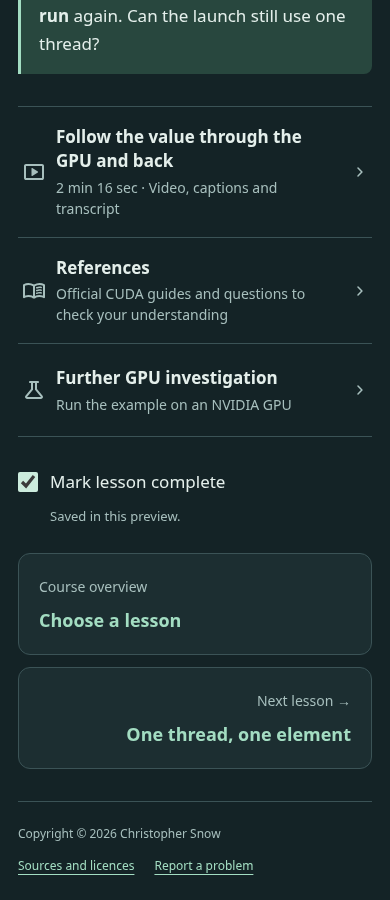
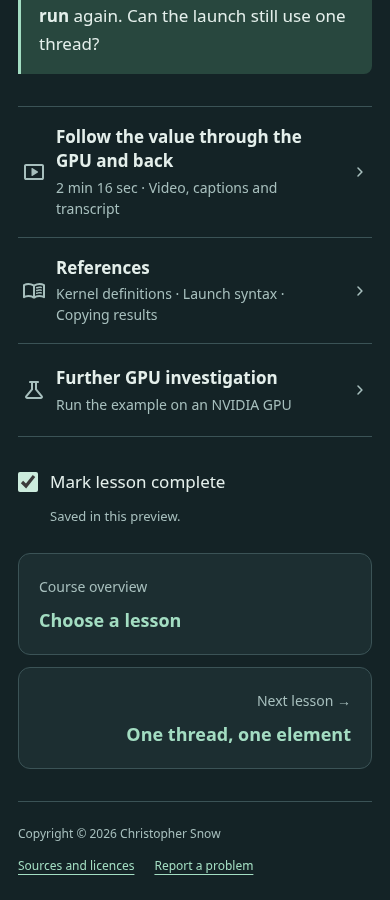
Specify lesson-specific topic references and illustrate quick lookup

Changed region(s): [[0.1538, 0.3111, 0.7692, 0.3733]]

diff --git a/docs/mockups/course-style.html b/docs/mockups/course-style.html
@@ -145,6 +145,11 @@
 #course-style-preview .editor-tools>summary{display:flex;align-items:center;gap:6px}
 #course-style-preview .tools-chevron.material-symbol{width:20px;height:20px}
 #course-style-preview .editor-tools[open] .tools-chevron{transform:rotate(90deg)}
+#course-style-preview .reference-topic+.reference-topic{margin-top:14px;padding-top:14px;border-top:1px solid var(--line)}
+#course-style-preview .reference-topic h3{font-size:16px;font-weight:600;margin-bottom:4px}
+#course-style-preview .reference-topic h3>a{display:inline-flex;align-items:center;min-height:44px}
+#course-style-preview .reference-code{display:block;font-size:14px;white-space:pre-wrap;overflow-wrap:anywhere;margin:4px 0 8px}
+#course-style-preview .reference-topic p{font-size:15px;margin:0}
 </style>
 <section id="course-style-preview" aria-label="Shared course lesson design preview">
   <div class="lab-app">
@@ -299,8 +304,12 @@ int main() {
           </div>
         </details>
         <details class="resource">
[1 lines of base64/hex data omitted]
-          <div class="resource-body"><p><a href="https://docs.nvidia.com/cuda/cuda-programming-guide/" target="_blank" rel="noopener">CUDA Programming Guide ↗</a></p><p>Does the kernel write directly into the CPU variable <code>value</code>?</p><details class="transcript"><summary>Compare your answer</summary><p>No. The kernel writes to <code>output[0]</code> in GPU memory. The copy places that number into <code>value</code> in CPU memory.</p></details></div>
[1 lines of base64/hex data omitted]
+          <div class="resource-body quick-reference">
+            <section class="reference-topic"><h3><a href="https://docs.nvidia.com/cuda/cuda-c-programming-guide/index.html#function-execution-space-specifiers" target="_blank" rel="noopener">Kernel definition ↗</a></h3><code class="reference-code">__global__ void hello(float* output)</code><p>Declares hello as a function that runs on the GPU.</p></section>
+            <section class="reference-topic"><h3><a href="https://docs.nvidia.com/cuda/cuda-c-programming-guide/index.html#execution-configuration" target="_blank" rel="noopener">Launch syntax ↗</a></h3><code class="reference-code">hello&lt;&lt;&lt;1, 1&gt;&gt;&gt;(output);</code><p>Requests one block containing one thread.</p></section>
+            <section class="reference-topic"><h3><a href="https://docs.nvidia.com/cuda/cuda-runtime-api/group__CUDART__MEMORY.html" target="_blank" rel="noopener">Copying the result to the CPU ↗</a></h3><code class="reference-code">cudaMemcpy(&amp;value, output, sizeof(value), cudaMemcpyDeviceToHost);</code><p>Copies the GPU value into the CPU variable value before printing.</p></section>
+          </div>
         </details>
         <details class="resource">
[1 lines of base64/hex data omitted]

diff --git a/docs/course-design-guide.md b/docs/course-design-guide.md
@@ -264,9 +264,21 @@ that rotates when opened. The whole summary is a touch and keyboard target.
 Use subtle horizontal separators rather than another set of coloured cards.
 Omit resource rows that have no useful content.
 
-Consolidate references. Do not repeat the same link list above a documentation
-exercise containing those links. Keep external-link behaviour clear. Use nested
-answer disclosures only when the learner has a question to attempt first.
+For coding lessons, include one lesson-specific **References** row near the
+bottom, after the main explanation and before completion and navigation.
+Name the topics covered in its subtitle, typically two to four related topics:
+for example, **Kernel definitions · Launch syntax · Copying results**.
+
+Inside, give each topic a short reminder or syntax example and a direct link to
+the relevant documentation section or API entry. Match the language and library
+version taught in the lesson. Cover the concepts and operations used on this page;
+keep further reading and new investigations in their own row. Required definitions
+and instructions still belong beside the experiment.
+
+Consolidate references rather than adding another generic course-wide link list.
+Do not repeat the same links above a documentation exercise containing them. Keep
+external-link behaviour clear. Use nested answer disclosures only when the learner
+has a question to attempt first.
 
 Follow resources with a separate completion row:
 
@@ -339,6 +351,8 @@ Check closed/open resources, empty/results/error states, selected cases, complet
 and saved work. Verify phones, tablets and desktops, both themes, browser zoom,
 keyboard order, visible focus and screen-reader names. The page itself must not
 scroll horizontally; code, diagrams and tables can have labelled local scrolling.
+For coding lessons, check that References names the page's topics, gives useful
+reminders or syntax, and links to the relevant documentation sections and versions.
 
 Run the actual starter and suggested edit when execution or instructions change.
 For navigation changes, follow real links, back/forward and reload, checking that
